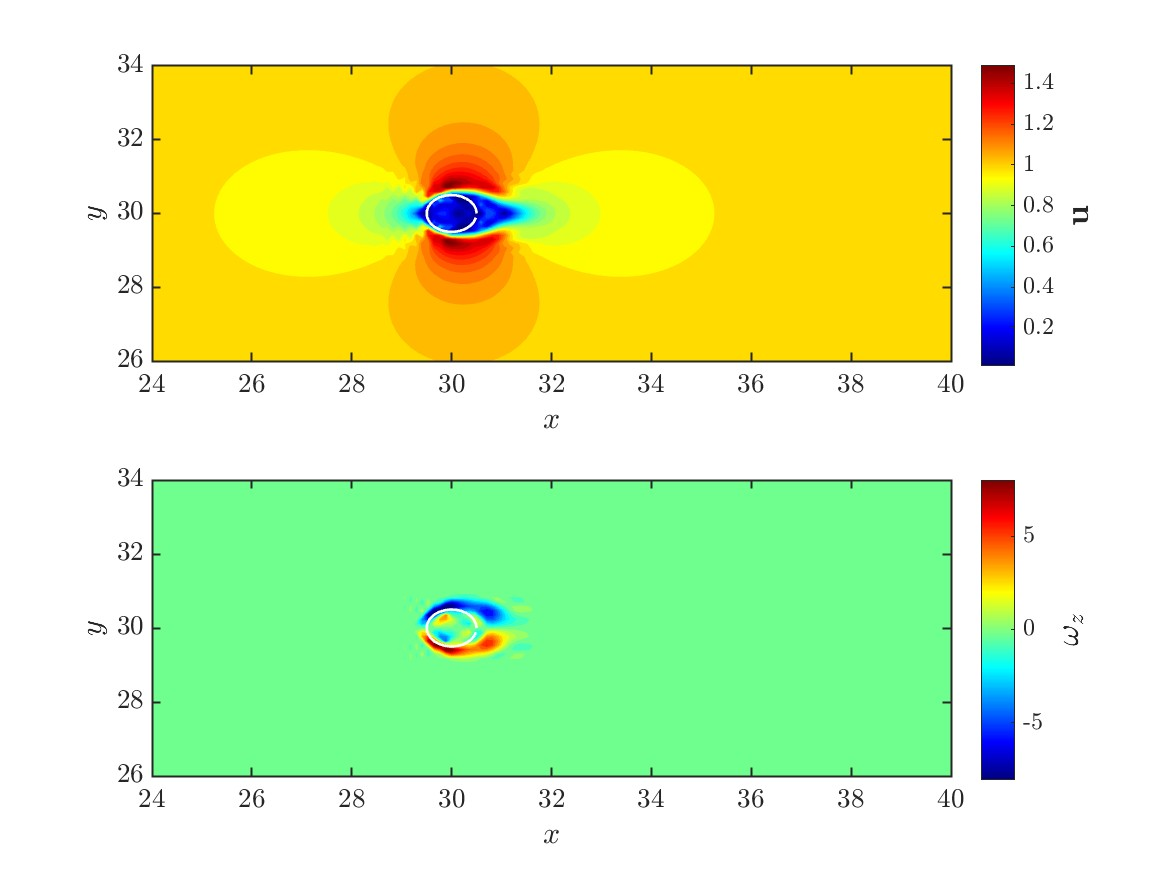
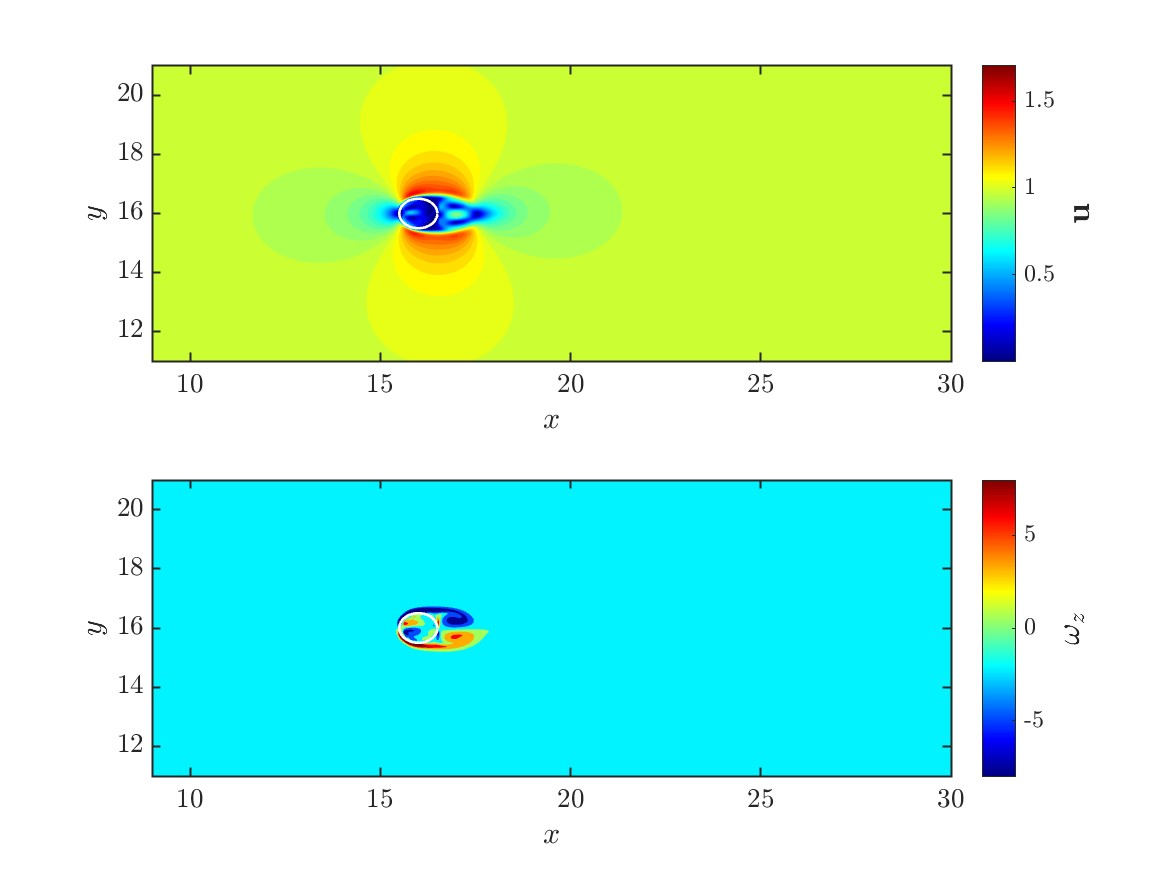
Updated latest version

diff --git a/main.m b/main.m
@@ -19,22 +19,26 @@ if ~exist('./matrixStuff.mat', 'file')
     Re = 200;
     Nx = 512; % Celdillas en x
     Ny = 512; % Celdillas en y
-    hmin = 0.04;
-    x0 = 0.72;
-    Lx = 60;
-    Ly = 60;
-    tSave = 10;
-    CFL = 0.5;
+    hmin = 0.02;
+    x0 = 0.8;
+    Lx = 32;
+    Ly = 32;
+    tSave = 1;
+    CFL = 0.4;
     
     %% Staggered Grid Generation
     [grid, u, v, p] = gridGeneration(Lx, Ly, Nx, Ny, hmin, x0);
     %dt = CFL*min(grid.cellMin^2*Re, grid.cellMin);
     dt = 2.5e-3;
+
+%     dt1 = CFL*min(grid.dX);
+%     dt2 = CFL*min(grid.dY);
+%     dt = min(dt1,dt2);
     
     %itSampling = floor(tSampling/dt);
     
     %% Immersed Boundary Grid Generation
-    Nk = 27; %157;
+    Nk = 157;
     R = 0.5;
     ib = IBMcylinder(R, Nk);
     ib.xi = ib.xi + 0.5*Lx;
@@ -153,7 +157,7 @@ uOld = u;
 vOld = v;
 
 t0 = 0;
-tf = 150;
+tf = 5;
 t = t0:dt:tf;
 
 % Preallocation for effieciency
@@ -172,6 +176,7 @@ forcesID = fopen('./forces/forces0', 'w');
 fprintf(forcesID, 'time \t fx \t fy\n');
 
 %% Temporal evolution
+
 tic
 for k = 1:length(t)
             
@@ -222,7 +227,16 @@ for k = 1:length(t)
     f.x(k) = sum(f.f(1:Nk));
     f.y(k) = sum(f.f(Nk+1:end));
     F(k) = hypot(f.x(k), f.y(k));
-    
+
+    % Advective terms
+    [NhatOld, ~, ~] = convectionHat(grid, uOld, vOld, Nx, Ny, bc);
+    [Nhat, ua, va] = convectionHat(grid, u, v, Nx, Ny, bc);
+
+%     u = reshape(u, Ny, Nx-1);
+%     bc.uE(:,end) = u(:,end) - dt*(u(:,end) - u(:,end-1))./grid
+% 
+%     UE = u[:,-1] - Uinf*(u[:,-1]-u[:,-2])*dt/np.diff(Xu)[0,-1]
+
     % Forces writing
     fprintf(forcesID, '\n%6.6f \t %6.6f \t %6.6f', [t(k) -f.x(k) -f.y(k)]);
     
@@ -294,11 +308,12 @@ fclose(forcesID);
 fig = figure(1);
 subplot(211)
 contourf(grid.x, grid.y, hypot(ua,va), 32,...
-    'LineStyle', 'none'),
+    'LineStyle', 'none'),hold on
+% plot(grid.x, grid.y, 'k.')
 xlabel('$x$'), ylabel('$y$')
 hold on
 shading interp,
-xlim([24 40]), ylim([26 34])
+xlim(0.5*Lx + [-7 14]), ylim(0.5*Ly + [-5 5])
 plot(ib.xi, ib.eta, 'w-', 'linewidth', 1.25)
 box on
 colormap('jet');
@@ -311,11 +326,11 @@ c.Label.FontSize = 16;
 
 vorticity = computeVorticity(ua, va, grid);
 subplot(212)
-contourf(grid.x, grid.y, vorticity, 32,...
+contourf(grid.x, grid.y, vorticity, 16,...
     'LineStyle', 'none'),
 xlabel('$x$'), ylabel('$y$')
 hold on
-xlim([24 40]), ylim([26 34])
+xlim(0.5*Lx + [-7 14]), ylim(0.5*Ly + [-5 5])
 plot(ib.xi, ib.eta, 'w-', 'linewidth', 1.25)
 box on
 colormap('jet');

diff --git a/gridGeneration.m b/gridGeneration.m
@@ -1,21 +1,25 @@
 function [ grid, u, v, p ] = gridGeneration(Lx, Ly, Nx, Ny, hmin, x0)
 
-    grid.X = linspace(0, Lx, Nx+1);
-    grid.Y = linspace(0, Ly, Ny+1);
+%     grid.X = linspace(0, Lx, Nx+1);
+%     grid.Y = linspace(0, Ly, Ny+1);
 
 %     r = (30/(x0 - hmin))^(1/(131 - 1));
 %     x = (x0 + hmin)*r.^(0:(131 - 1));
 %     grid.X = [-flip(x), -x0:hmin:x0, x] + 30; grid.X(1) = 0;
 %     grid.Y = grid.X;
 
-%     N = 132;
-%     beta = 1.75;
-%  
-%     x = (60 - 30 - x0)*(1 - tanh(beta*(1 - (1:N)/N))./tanh(beta));
-%     xr = x + 30 + x0; xr(end) = 60;
-%     xl = flip(30 - x) - x0; xl(1) = 0;
-%     grid.X = [xl, (30 - x0):hmin:(x0 + 30), xr];
-%     grid.Y = grid.X;
+
+% Reference: "A new compact difference scheme for second derivative in non-
+% uniform grid expressed in self-adjoint form" by TK Sengupta, S Bhaumik 
+% and Shameem Usman, J. Comp. Phys. 230 (2011) 1822–1848
+    N = 216;
+    beta = 1.5;
+ 
+    x = (0.5*Lx - x0)*(1 - tanh(beta*(1 - (1:N)/N))./tanh(beta));
+    xr = x + 0.5*Lx + x0; xr(end) = Lx;
+    xl = flip(0.5*Lx - x) - x0; xl(1) = 0;
+    grid.X = [xl, (0.5*Lx - x0):hmin:(x0 + 0.5*Lx), xr];
+    grid.Y = grid.X;
 
     grid.dX = diff(grid.X)';
     grid.dY = diff(grid.Y)';
@@ -55,6 +59,5 @@ function [ grid, u, v, p ] = gridGeneration(Lx, Ly, Nx, Ny, hmin, x0)
     grid.dxp = diff(grid.xp')';
     grid.dyp = diff(grid.yp);
     
-
 end
 
